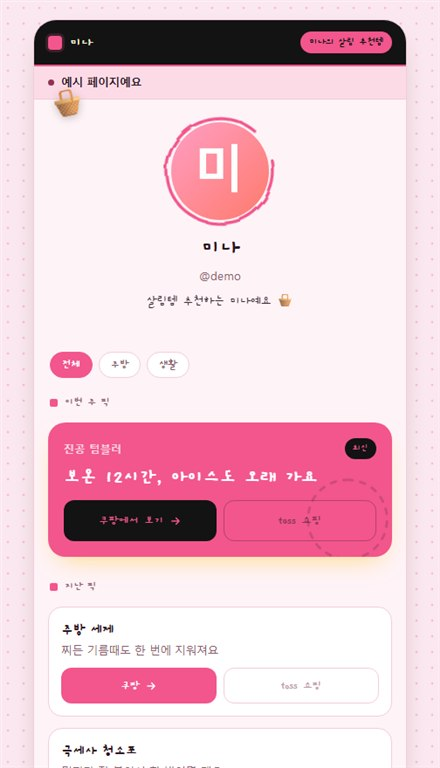
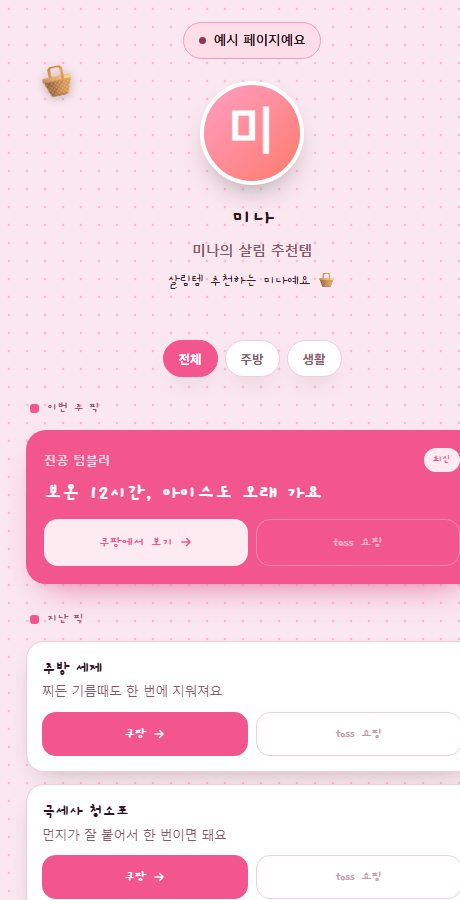
Landing: add 지아 (fashion IG influencer) example — hero phone + showcase card; refresh all example mockups (ph-bugi/demo/bomi/jia) to new Linktree profile style; 4-up auto-fit showcase

diff --git a/index.html b/index.html
@@ -159,7 +159,7 @@
   .auto-cta a{color:var(--cyan);font-weight:800}
 
   /* examples */
-  .ex-grid{display:grid;grid-template-columns:repeat(3,1fr);gap:20px}
+  .ex-grid{display:grid;grid-template-columns:repeat(auto-fit,minmax(210px,1fr));gap:18px}
   .ex{background:#fff;border:1px solid var(--line);border-radius:24px;padding:16px 16px 20px;transition:transform .18s,box-shadow .25s;display:block}
   .ex:hover{transform:translateY(-6px) rotate(-.6deg);box-shadow:0 30px 56px -30px rgba(20,50,30,.45)}
   .ex .shot{border-radius:16px;overflow:hidden;aspect-ratio:440/430;border:1px solid var(--line);margin-bottom:15px}
@@ -238,7 +238,7 @@
         <p class="hero-note">카드 등록 없이 · 설치 없이 · 무료로</p>
       </div>
       <div class="art rv" aria-hidden="true">
-        <div class="phone"><img src="/assets/ph-bugi.jpg" alt=""></div>
+        <div class="phone"><img src="/assets/ph-jia.jpg" alt=""></div>
         <img class="fmascot" src="/assets/bugi-mascot.jpg" alt="">
         <span class="chip c1"><span class="d"></span>＋ 링크 추가</span>
         <span class="chip c2"><span class="d" style="background:var(--cyan)"></span>방문 +240</span>
@@ -331,6 +331,7 @@
         <p style="margin-left:auto;margin-right:auto">"70만 명이 쓴다" 같은 문구 대신 — 같은 도구로 만든 실제 페이지를 눌러서 직접 둘러보세요.</p>
       </div>
       <div class="ex-grid">
+        <a class="ex rv" href="/jia"><div class="shot"><img src="/assets/ph-jia.jpg" alt="지아 패션 인플루언서 페이지"></div><h3>패션 인플루언서</h3><p>코디·아이템·공구를 한 곳에</p><span class="go">지아 페이지 →</span></a>
         <a class="ex rv" href="/bugi"><div class="shot"><img src="/assets/ph-bugi.jpg" alt="부기 개인 페이지"></div><h3>개인 링크</h3><p>유튜브·인스타·블로그를 한 곳에</p><span class="go">부기 페이지 →</span></a>
         <a class="ex rv" href="/demo"><div class="shot"><img src="/assets/ph-demo.jpg" alt="미나 쇼핑 큐레이션"></div><h3>쇼핑 큐레이션</h3><p>상품 카드·카테고리 필터로</p><span class="go">미나 페이지 →</span></a>
         <a class="ex rv" href="/bomi"><div class="shot"><img src="/assets/ph-bomi.jpg" alt="봄이 크리에이터 페이지"></div><h3>크리에이터·포트폴리오</h3><p>작업과 커미션을 한 곳에</p><span class="go">봄이 페이지 →</span></a>